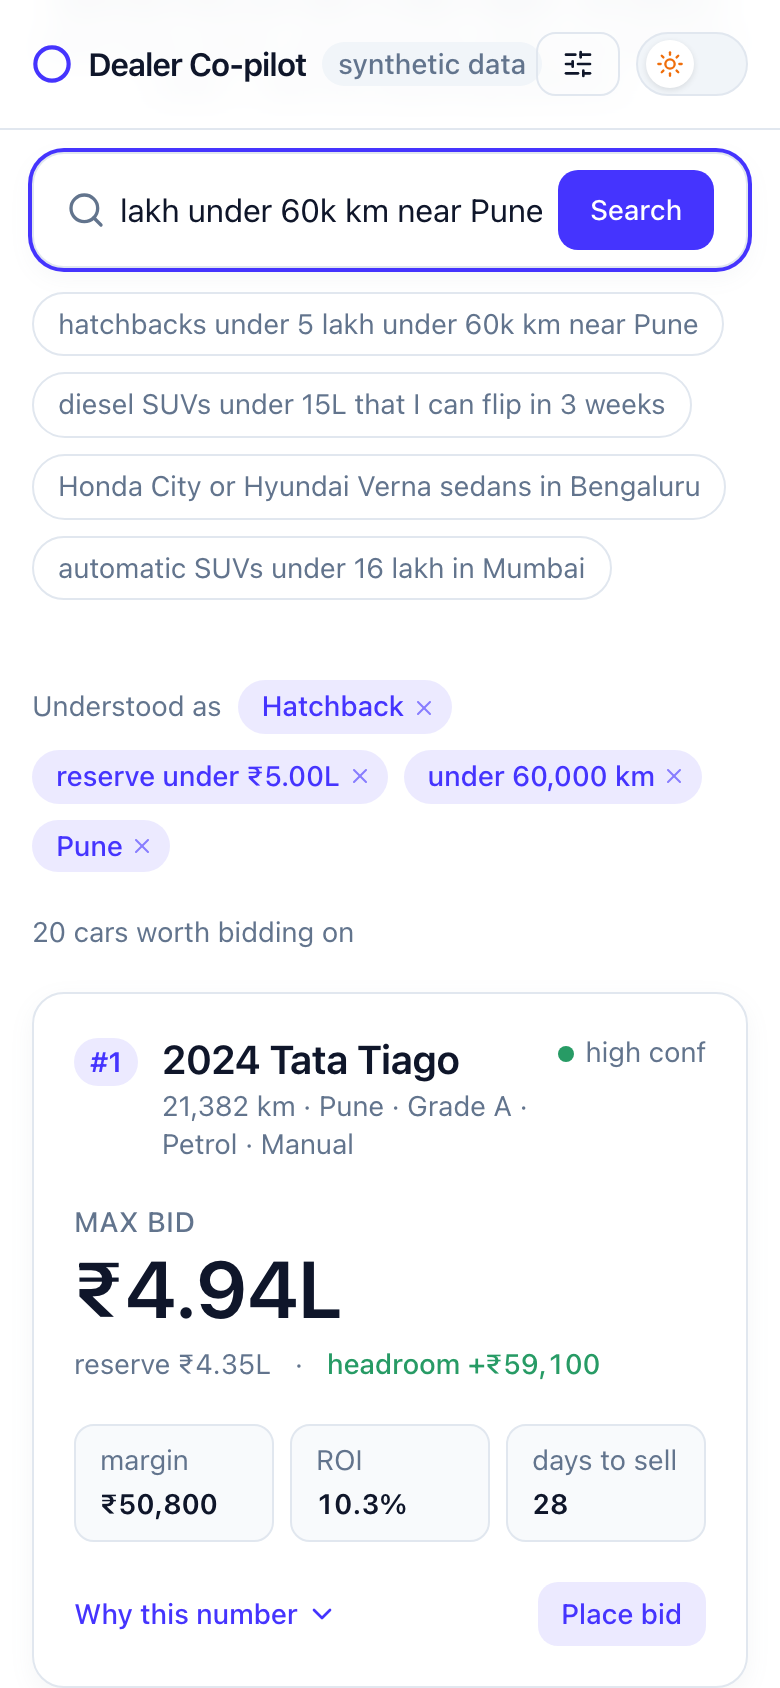
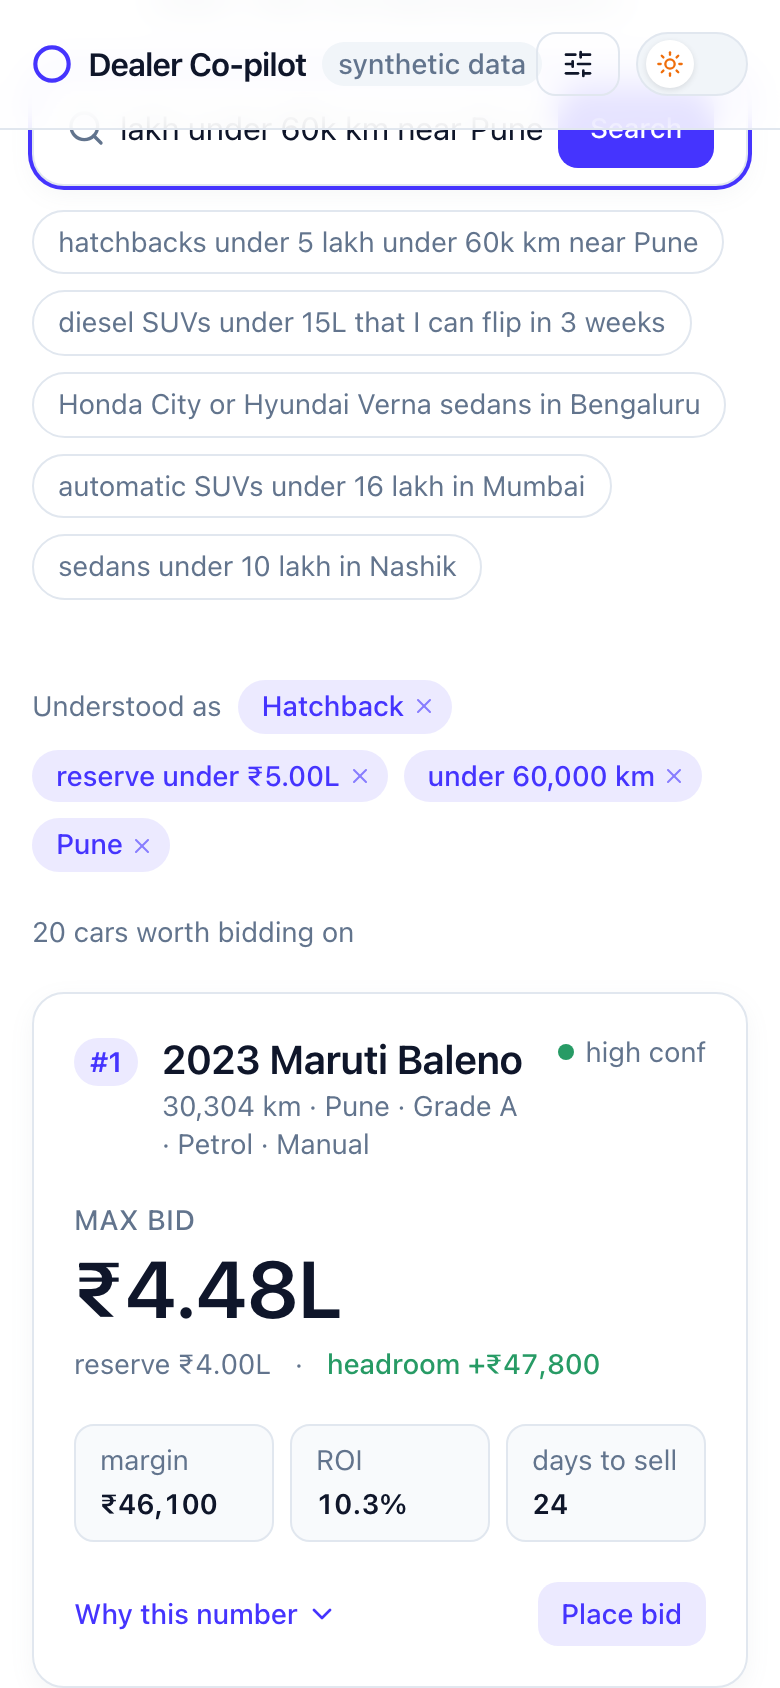
fix(data): long-tail sold history by model and floor year at model launch

diff --git a/ui/src/components/SearchBar.tsx b/ui/src/components/SearchBar.tsx
@@ -17,6 +17,10 @@ const EXAMPLE_CHIPS = [
   "diesel SUVs under 15L that I can flip in 3 weeks",
   "Honda City or Hyundai Verna sedans in Bengaluru",
   "automatic SUVs under 16 lakh in Mumbai",
+  // Surfaces low-confidence refusal cards (thin-data sedans like the Skoda
+  // Rapid in a small market) alongside priced results — the honesty screen,
+  // one click away for a demo.
+  "sedans under 10 lakh in Nashik",
 ];
 
 interface SearchBarProps {

diff --git a/api/app/generate_data.py b/api/app/generate_data.py
@@ -42,6 +42,28 @@ MODELS: dict[str, tuple[str, float, float]] = {
     "Toyota Urban Cruiser": ("suv", 11.0, 0.55),
 }
 
+# Indian launch year per model — the generated year is floored at this so we
+# never produce an impossible car (e.g. a 2016 XUV300; it launched in 2019).
+LAUNCH_YEAR = {
+    "Maruti Alto": 2000,
+    "Maruti Swift": 2005,
+    "Maruti Baleno": 2015,
+    "Hyundai Grand i10": 2013,
+    "Hyundai i20": 2008,
+    "Tata Tiago": 2016,
+    "Maruti Dzire": 2008,
+    "Honda Amaze": 2013,
+    "Honda City": 1998,
+    "Hyundai Verna": 2006,
+    "Skoda Rapid": 2011,
+    "Hyundai Creta": 2015,
+    "Kia Seltos": 2019,
+    "Tata Nexon": 2017,
+    "Mahindra XUV300": 2019,
+    "Maruti Brezza": 2016,
+    "Toyota Urban Cruiser": 2020,
+}
+
 CITY_MULT = {
     "Mumbai": 1.05,
     "Bengaluru": 1.05,
@@ -57,15 +79,28 @@ GRADE_DTS_MULT = {"A": 0.85, "B": 1.00, "C": 1.30}
 
 MODEL_NAMES = list(MODELS.keys())
 
+# Long-tailed model mix for sold_history: weight by popularity^3 so a Swift or
+# Creta has hundreds of comparable sales and a Skoda Rapid almost none. This is
+# how real auction history looks, and it makes the confidence gate fire
+# naturally on thin models/variants rather than on a handful of outliers.
+_SOLD_POP_POWER = 6.0
+_sold_weights = np.array([MODELS[m][2] ** _SOLD_POP_POWER for m in MODEL_NAMES])
+SOLD_MODEL_PROBS = _sold_weights / _sold_weights.sum()
 
-def _sample_rows(rng: np.random.Generator, n: int) -> pd.DataFrame:
-    model = rng.choice(MODEL_NAMES, size=n)
+
+def _sample_rows(
+    rng: np.random.Generator, n: int, model_probs: np.ndarray | None = None
+) -> pd.DataFrame:
+    model = rng.choice(MODEL_NAMES, size=n, p=model_probs)
     segment = np.array([MODELS[m][0] for m in model])
     base_price = np.array([MODELS[m][1] for m in model])
     popularity_mean = np.array([MODELS[m][2] for m in model])
 
-    # Floor age at 1 — a used auction has no current-year cars.
+    # Floor age at 1 — a used auction has no current-year cars — then clamp per
+    # model so the resulting year never predates the model's launch.
     age = rng.integers(1, 11, size=n)
+    max_age = np.array([CURRENT_YEAR - LAUNCH_YEAR[m] for m in model])
+    age = np.minimum(age, max_age)
     year = CURRENT_YEAR - age
 
     # Realistic odometer: ~8,000–15,000 km per year of age with noise, floored
@@ -160,7 +195,9 @@ def generate_inventory(rng: np.random.Generator) -> pd.DataFrame:
 
 
 def generate_sold(rng: np.random.Generator) -> pd.DataFrame:
-    return _sample_rows(rng, N_SOLD)
+    # Long-tailed by model so comparables are plentiful for popular models and
+    # genuinely thin for rare ones.
+    return _sample_rows(rng, N_SOLD, model_probs=SOLD_MODEL_PROBS)
 
 
 def _sanity_report(inventory: pd.DataFrame, sold: pd.DataFrame) -> None:
